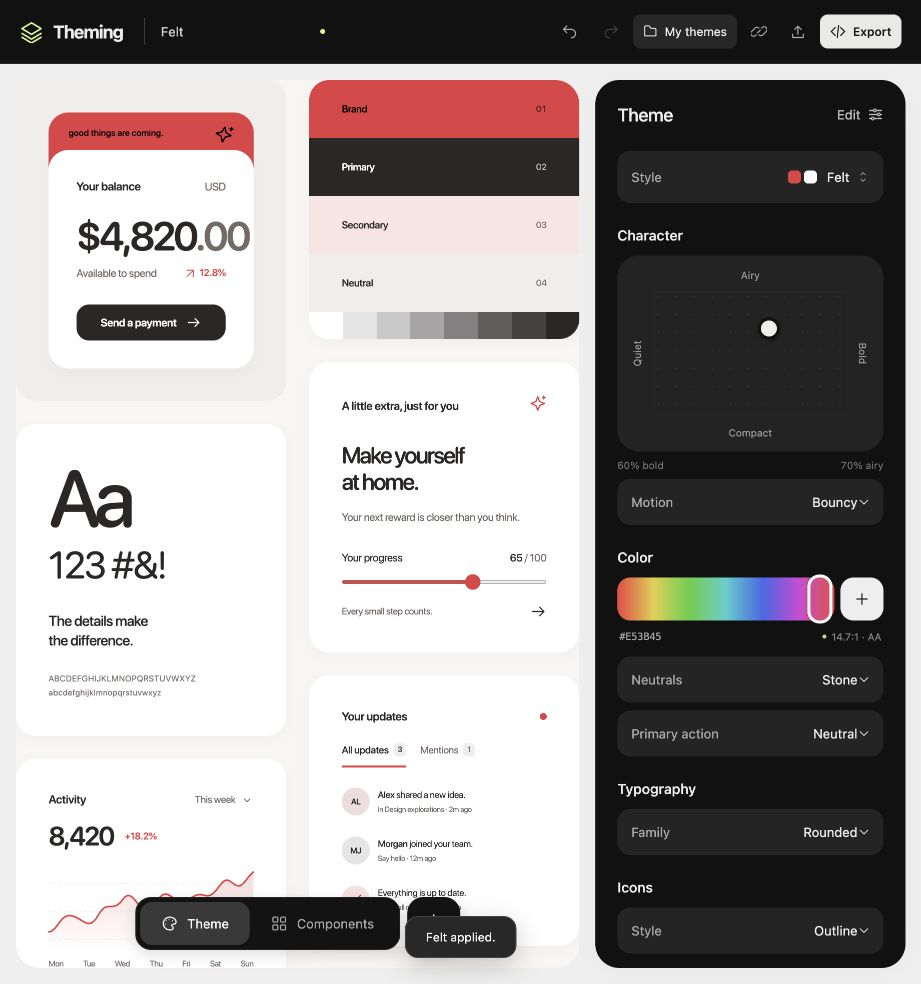
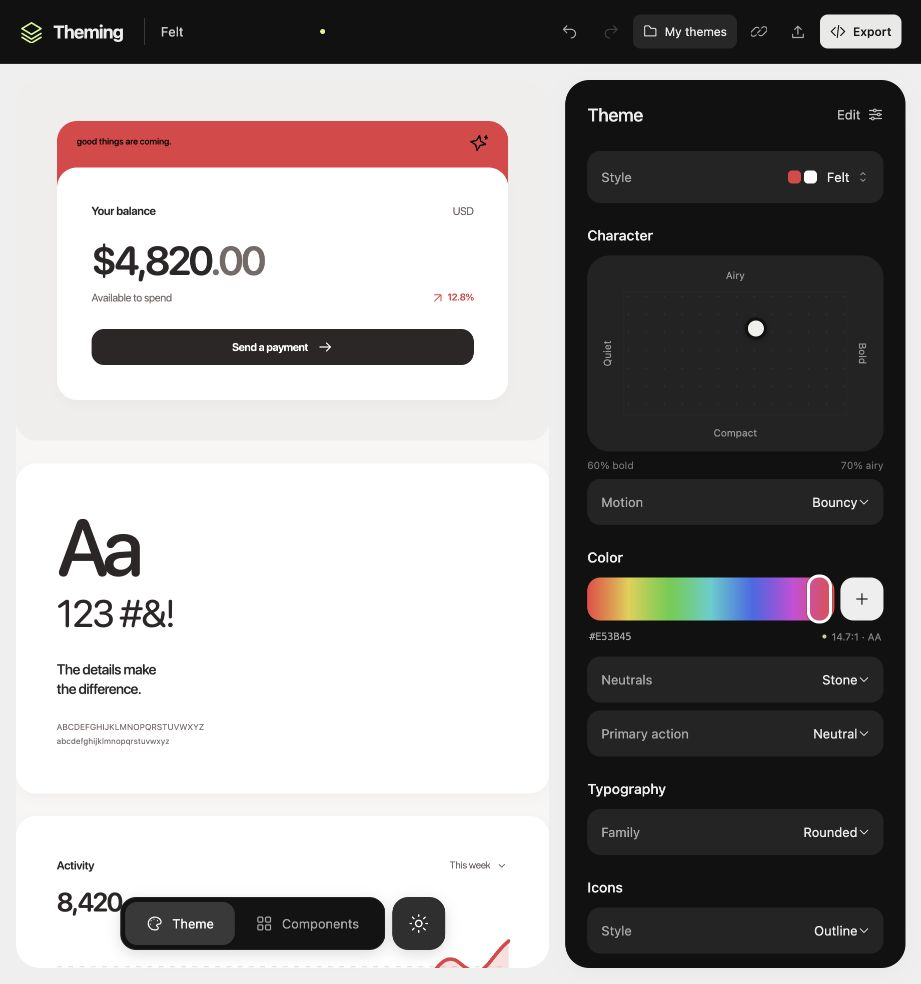
Sync component color readouts and document final editor preview

diff --git a/src/app.js b/src/app.js
@@ -77,7 +77,7 @@ function renderComponentInspector(){
   const names={button:'Button',input:'Input',select:'Select',textarea:'Text area',switch:'Switch',card:'Card'};
   const v=themeVariables(theme), styles=theme.componentStyles?.[inspectedComponent]||{};
   const primary=inspectedComponent==='button'||inspectedComponent==='switch';
-  const values={background:primary?v['--t-primary']:v['--t-surface'],color:primary?v['--t-on-primary']:v['--t-text'],borderColor:v['--t-border'],radius:parseFloat(v['--t-radius-sm']),...styles.base,...styles[componentState]};
+  const values={background:primary?v['--t-primary']:v['--t-surface'],color:primary?v['--t-on-primary']:v['--t-text'],borderColor:v['--t-border'],radius:inspectedComponent==='switch'?48:parseFloat(v['--t-radius-sm']),...styles.base,...styles[componentState]};
   inspector.innerHTML=`<div class="inspector-head"><h1>${names[inspectedComponent]}</h1><button class="text-button" data-action="exit-component">Done ${icon('check',16)}</button><button class="icon-button mobile-close" data-action="close-inspector" aria-label="Close theme controls">${icon('close',18)}</button></div><p class="component-editor-caption">Component styles</p><label class="property"><span class="property-label">Preview state</span><select aria-label="Preview state" data-component-state>${[['base','Default'],['hover','Hover'],['active','Pressed'],['focus','Focus'],['disabled','Disabled']].map(([id,label])=>`<option value="${id}" ${id===componentState?'selected':''}>${label}</option>`).join('')}</select></label><section class="inspector-section"><h2>Appearance</h2>${[['background','Background'],['color','Text'],['borderColor','Border']].map(([key,label])=>`<div class="field-row"><label for="component-${key}">${label}</label><input type="text" maxlength="7" aria-label="Component ${label.toLowerCase()} hex" value="${values[key]}" data-component-hex="${key}"><input type="color" id="component-${key}" aria-label="Component ${label.toLowerCase()} color" value="${values[key]}" data-component-prop="${key}"></div>`).join('')}<label class="range-row"><span>Corner radius<output data-component-radius>${values.radius}px</output></span><input type="range" aria-label="Component corner radius" min="0" max="48" step="1" value="${values.radius}" data-component-prop="radius"></label></section><div class="component-state-note">${icon('sliders',18)}<p>Changes apply to this component across your theme. State styles are included in your CSS export.</p></div><div class="inspector-footer"><span>${styles[componentState]?'Custom '+componentState+' styles':'Inheriting theme styles'}</span><button data-action="reset-component">Reset component</button></div>`;
   inspector.classList.toggle('mobile-open',mobileOpen);
 }
@@ -116,8 +116,16 @@ function handleInput(e,record){const el=e.target;if(el.dataset.key){const key=el
   else if(el.hasAttribute('data-hue')){update({brand:hueHex(Number(el.value))},{record});const color=document.querySelector('[aria-label="Custom brand color"]');if(color)color.value=theme.brand;}
   else if(el.dataset.color){const key=el.dataset.color;update({colors:{...(theme.colors||{}),[theme.mode]:{...(theme.colors?.[theme.mode]||{}),[key]:el.value}}},{record});const textInput=document.querySelector(`[data-color-text="${key}"]`);if(textInput)textInput.value=el.value;}
 }
-inspector.addEventListener('input',e=>{if(e.target.dataset.componentProp){setComponentProperty(e.target.dataset.componentProp,e.target.type==='range'?Number(e.target.value):e.target.value,false);const output=document.querySelector('[data-component-radius]');if(output&&e.target.type==='range')output.textContent=e.target.value+'px';return;}handleInput(e,false);});
-inspector.addEventListener('change',e=>{if(e.target.hasAttribute('data-component-state')){componentState=e.target.value;renderInspector();applyTheme();return;}if(e.target.dataset.componentProp){setComponentProperty(e.target.dataset.componentProp,e.target.type==='range'?Number(e.target.value):e.target.value,true);return;}if(e.target.dataset.componentHex){try{setComponentProperty(e.target.dataset.componentHex,e.target.value,true);renderInspector();}catch(error){notify(error.message);renderInspector();}return;}if(e.target.dataset.colorText){const el=e.target,key=el.dataset.colorText;try{update({colors:{...(theme.colors||{}),[theme.mode]:{...(theme.colors?.[theme.mode]||{}),[key]:el.value}}});renderInspector();}catch(error){notify(error.message);renderInspector();}return;}handleInput(e,true);});
+function handleComponentInput(el,record){
+  const key=el.dataset.componentProp;
+  setComponentProperty(key,el.type==='range'?Number(el.value):el.value,record);
+  const hex=inspector.querySelector(`[data-component-hex="${key}"]`);
+  if(hex)hex.value=el.value;
+  const output=inspector.querySelector('[data-component-radius]');
+  if(output&&el.type==='range')output.textContent=el.value+'px';
+}
+inspector.addEventListener('input',e=>{if(e.target.dataset.componentProp){handleComponentInput(e.target,false);return;}handleInput(e,false);});
+inspector.addEventListener('change',e=>{if(e.target.hasAttribute('data-component-state')){componentState=e.target.value;renderInspector();applyTheme();return;}if(e.target.dataset.componentProp){handleComponentInput(e.target,true);return;}if(e.target.dataset.componentHex){try{setComponentProperty(e.target.dataset.componentHex,e.target.value,true);renderInspector();}catch(error){notify(error.message);renderInspector();}return;}if(e.target.dataset.colorText){const el=e.target,key=el.dataset.colorText;try{update({colors:{...(theme.colors||{}),[theme.mode]:{...(theme.colors?.[theme.mode]||{}),[key]:el.value}}});renderInspector();}catch(error){notify(error.message);renderInspector();}return;}handleInput(e,true);});
 document.querySelector('#theme-name').addEventListener('change',e=>update({name:e.target.value}));
 document.querySelector('#component-search').addEventListener('input',e=>{filter=e.target.value;renderGallery();});
 document.querySelector('#import-file').addEventListener('change',async e=>{const file=e.target.files?.[0];if(!file)return;try{if(file.size>100000)throw Error('Choose a theme JSON file smaller than 100 KB.');const imported=normalizeTheme(JSON.parse(await file.text()));update(imported,{render:true,gallery:true});notify(`Imported ${imported.name}.`);}catch(error){notify(`Import failed: ${error.message}`);}finally{e.target.value='';}});
